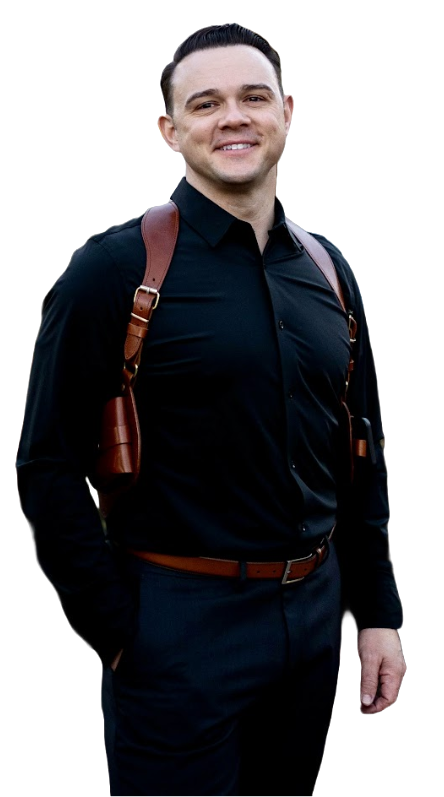
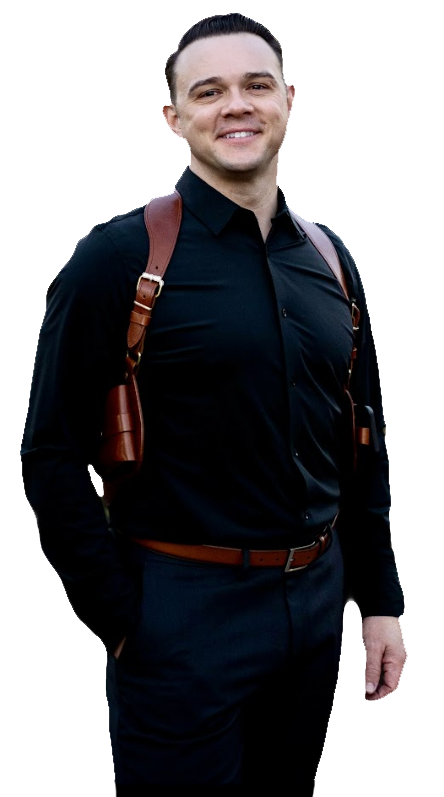
Fixed Phelan.png white edges in dark mode & footer text visibility in light mode

diff --git a/src/components/Footer.js b/src/components/Footer.js
@@ -18,16 +18,16 @@ export const Footer = () => {
       whileOutOfView={{ opacity: 0, y: 50 }}
       transition={{ duration: 0.9, ease: "easeOut" }} // Smooth transition
       viewport={{ once: false, amount: 0.1 }} // Trigger when 10% of text is visible
-      className="bg-white black py-6 dark:bg-[#0b1727] dark:text-white">
+      className="bg-gray-100 text-gray-800 dark:bg-gray-900 dark:text-gray-300 py-6">
       <div className="container mx-auto flex flex-col md:flex-row justify-between items-center px-6">
         {/* Left Side - Logo & Copyright */}
         <div className="text-center md:text-left mb-4 md:mb-0">
           <h2 className="text-xl font-bold text-blue-500">Phelan Focus</h2>
-          <p className="text-sm">© {new Date().getFullYear()} All Rights Reserved.</p>
+          <p className="text-sm text-gray-700 dark:text-gray-400">© {new Date().getFullYear()} All Rights Reserved.</p>
         </div>
 
         {/* Center - Navigation Links */}
-        <ul className="flex space-x-4 text-sm">
+        <ul className="flex space-x-4 text-sm text-gray-700 dark:text-gray-300">
           {["About", "Services", "Contact"].map((link, index) => (
             <li key={index}>
               <a href={`#${link.toLowerCase()}`} className="hover:text-blue-500">
@@ -40,7 +40,7 @@ export const Footer = () => {
         {/* Right Side - Social Media Icons */}
         <div className="flex space-x-4 text-xl text-blue-500">
           {socialIcons.map((item, index) => (
-            <a key={index} href={item.href} className="hover:text-black">
+            <a key={index} href={item.href} className="hover:text-gray-900 dark:hover:text-gray-200 transition-colors duration-300">
               <FontAwesomeIcon icon={item.icon} />
             </a>
           ))}
